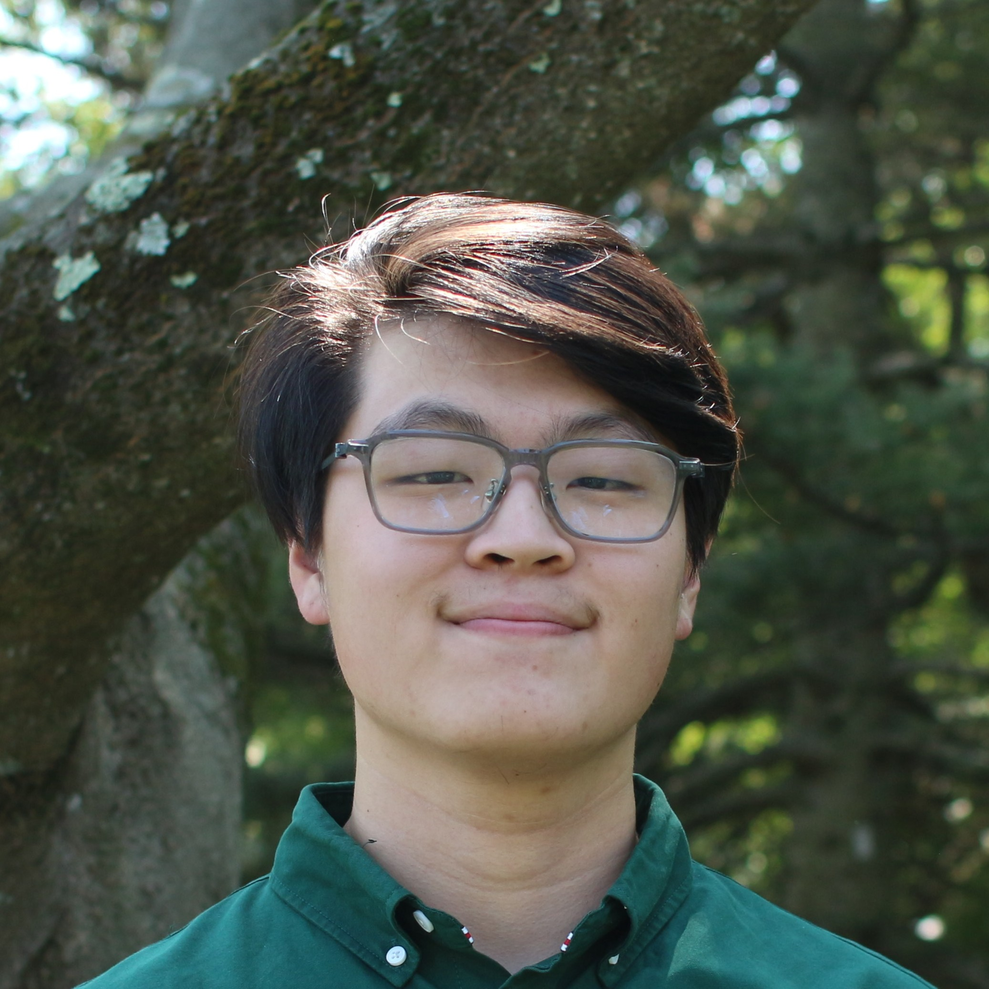
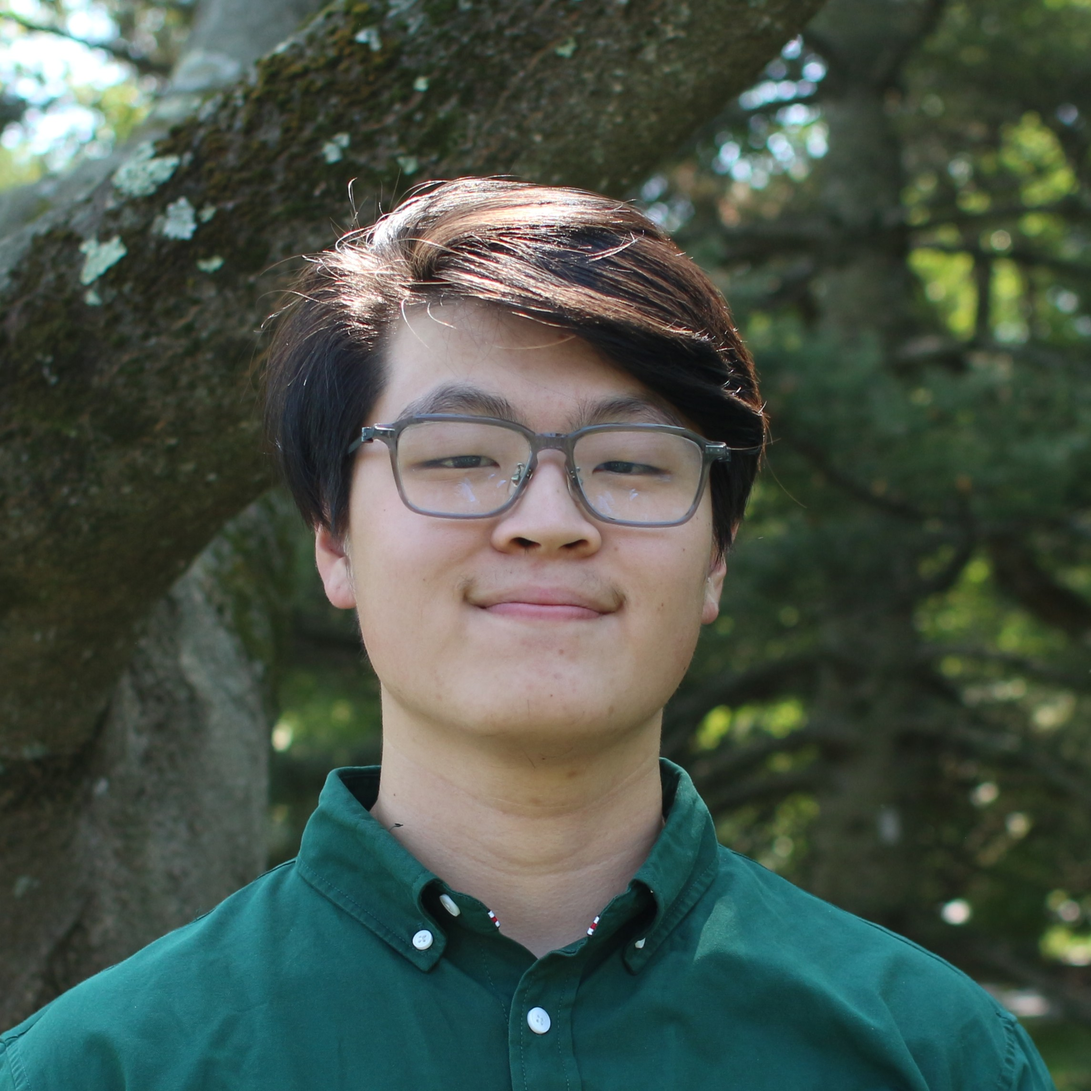
formatting changes

diff --git a/_includes/project_list.html b/_includes/project_list.html
@@ -1,17 +1,9 @@
-{% assign list_title = include.list_title %} {% assign num_items =
-include.num_items | default: 50 %} {% assign sorted_projects = site.projects |
-sort: "date" | reverse %}
+{% assign num_items = include.num_items | default: 50 %} {% assign
+sorted_projects = site.projects | sort: "date" | reverse %}
 <div class="project-list">
-  <!-- {% if list_title %}
-  <div class="project-list-title">
-    <h2>{{ list_title }}</h2>
-  </div>
-  {% endif %} -->
   {% for project in sorted_projects limit: num_items %}
   <div class="project-list-item">
-    <div class="project-list-image">
-      <img src="{{ project.thumbnail }}" alt="{{ project.title }}" />
-    </div>
+    <img src="{{ project.thumbnail }}" alt="{{ project.title }}" />
     <div class="project-list-text">
       <h3>
         <a class="link" href="{{ project.url }}">{{ project.title }}</a>

diff --git a/_sass/_index.scss b/_sass/_index.scss
@@ -10,31 +10,25 @@
 
   gap: calc(1 * var(--std-unit));
 
-  padding: calc(2 * var(--std-unit));
-
   @media (min-aspect-ratio: 1/1) {
     flex-direction: row;
     gap: calc(3 * var(--std-unit));
-    // gap: calc(4 * var(--std-unit));
   }
 
   .banner-headshot {
     height: 100%;
     width: min-content;
 
-    // padding: calc(2 * var(--std-unit));
-
     img {
       height: calc(20 * var(--std-unit));
       aspect-ratio: 1 / 1;
       object-fit: cover;
-      border-radius: 20%;
+      border-radius: 10%;
     }
   }
 
   .banner-intro {
     height: 100%;
-    // width: min-content;
 
     display: flex;
     flex-direction: column;
@@ -42,8 +36,6 @@
     align-items: center;
 
     gap: calc(1 * var(--std-unit));
-
-    // padding: calc(2 * var(--std-unit));
 
     @media (min-aspect-ratio: 1/1) {
       align-items: start;

diff --git a/index.html b/index.html
@@ -4,16 +4,16 @@ title: Home
 permalink: /
 ---
 
+<spacer></spacer>
 <div class="home-banner">
   <div class="banner-headshot">
     <img
-      src="assets/img/Headshot Square.jpeg"
+      src="\assets\img\Headshot Square.jpeg"
       alt="Eric Chen Profile Picture"
     />
   </div>
   <div class="banner-intro">
     <h1>Hi, I'm Eric</h1>
-    <!-- <br /> -->
     <h3>
       Engineering, CS, and Math
       <br />
@@ -22,8 +22,8 @@ permalink: /
     <h3>&#x2193; Check out my recent projects</h3>
   </div>
 </div>
-<div class="index-projects-title">
+<spacer></spacer>
+<div class="title-container">
   <h2>Recent Projects</h2>
 </div>
-{% include project_list.html list_title="Recent Projects" num_items=5 %}
-<div class="spacer"></div>
+{% include project_list.html num_items=3 %}

diff --git a/_sass/_project_list.scss b/_sass/_project_list.scss
@@ -7,21 +7,9 @@
   justify-content: start;
   align-items: center;
 
-  padding: calc(2 * var(--std-unit));
-
-  .project-list-title {
-    height: var(--page-title-height);
-    width: 100%;
-
-    display: flex;
-    justify-content: center;
-    align-items: center;
-  }
-
   .project-list-item {
     height: calc(10 * var(--std-unit));
     width: 100%;
-    max-width: calc(1 * var(--max-width));
 
     display: flex;
     justify-content: start;
@@ -34,14 +22,10 @@
     border-top: 1px solid var(--accent-color);
     border-bottom: 1px solid var(--accent-color);
 
-    .project-list-image {
+    img {
       height: 100%;
       width: auto;
-
-      img {
-        height: 100%;
-        width: auto;
-      }
+      border-radius: 10%;
     }
 
     .project-list-text {

diff --git a/_sass/_base.scss b/_sass/_base.scss
@@ -10,7 +10,7 @@
 
   // gap: calc(2 * var(--std-unit));
 
-  // padding: calc(2 * var(--std-unit));
+  padding: 0px calc(2 * var(--std-unit));
 
   .title-container {
     height: var(--page-title-height);
@@ -20,8 +20,8 @@
     justify-content: center;
     align-items: center;
 
-    border-top: 1px solid var(--accent-color);
-    border-bottom: 1px solid var(--accent-color);
+    // border-top: 1px solid var(--accent-color);
+    // border-bottom: 1px solid var(--accent-color);
     // padding: var(--std-unit);
   }
 }

diff --git a/assets/css/style.scss b/assets/css/style.scss
@@ -18,7 +18,7 @@ $std-unit: 16px;
   --max-width: calc(60 * var(--std-unit));
 
   --navbar-height: calc(5 * var(--std-unit));
-  --page-title-height: calc(7 * var(--std-unit));
+  --page-title-height: calc(7.5 * var(--std-unit));
 }
 
 @mixin clear-all {
@@ -77,7 +77,7 @@ body {
     font-weight: normal;
   }
 
-  .spacer {
+  spacer {
     height: calc(1 * var(--navbar-height));
     width: 100%;
   }

diff --git a/_layouts/base.html b/_layouts/base.html
@@ -4,4 +4,5 @@ layout: blank
 
 {% include navbar.html %}
 <div class="content-container">{{ content }}</div>
+<spacer></spacer>
 {% include footer.html %}
